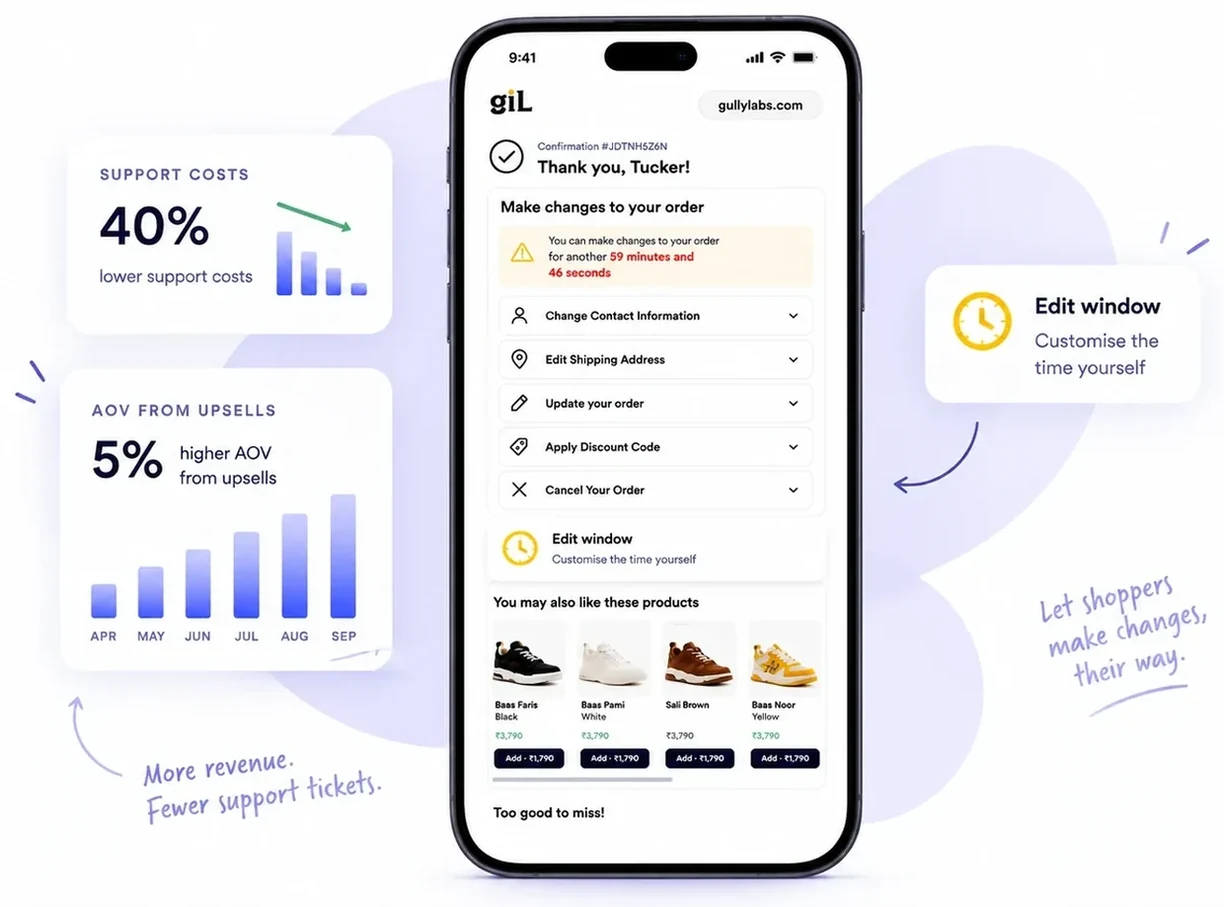
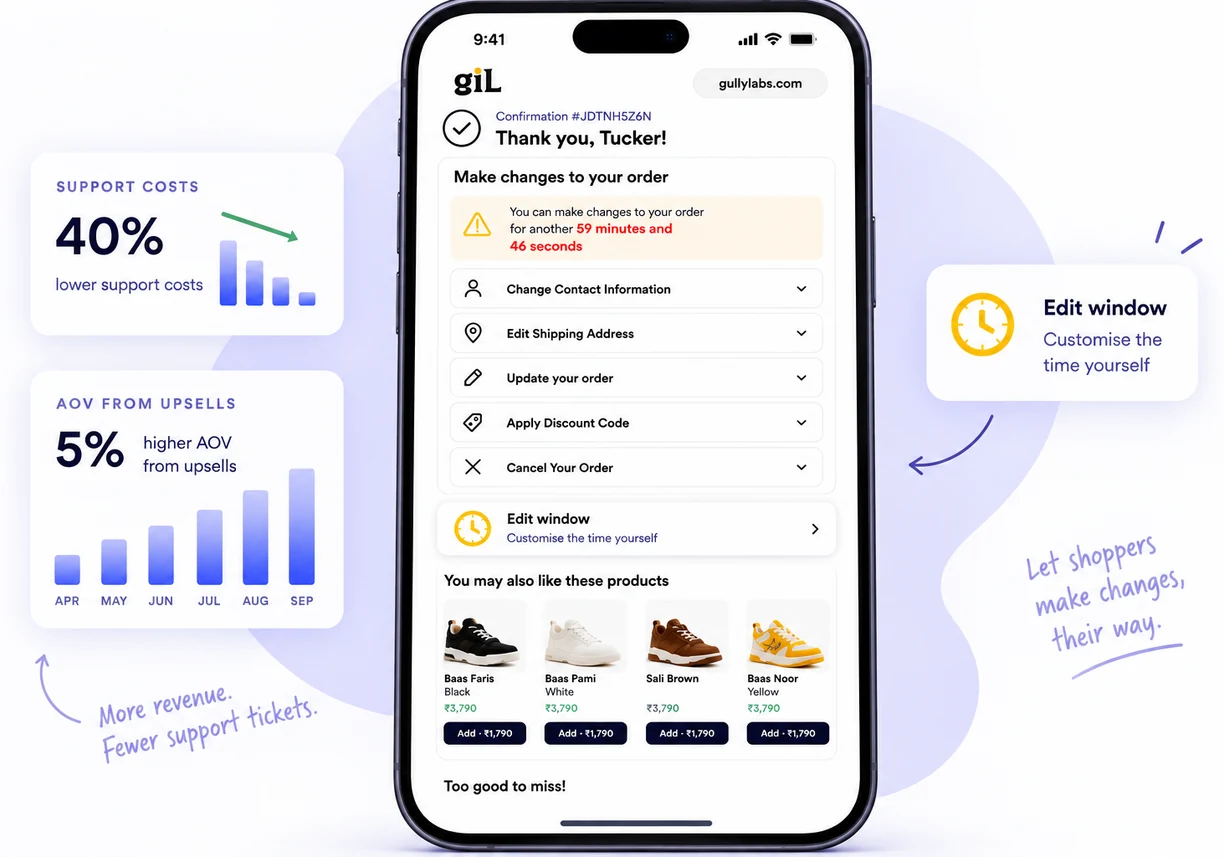
The newer hero render replaces the first one
Same composition drawn cleaner - a larger phone, crisper cards - so the
only structural change is the height. It trims to 1.429:1 against the old
1.348, which makes 612 wide 428 tall rather than 454. Stated on the tag as
well as in the style, so the box is reserved before the bytes land.

Trimmed the same way: content ran x 55..1486 of 1536 with nothing to spare
top or bottom, so 50 and 55 came off the sides with an even 16 given back.
612 and 1224, 30KB and 76KB.

Width is unchanged, so the copy column and its three-line headline are
untouched - verified three lines at 1440, 1280 and 420, and the h1's
longest line still measures 572 in its 580 column.

diff --git a/index.html b/index.html
@@ -1571,7 +1571,7 @@
       </div>
 
       <div style="width: 612px; flex-shrink: 0; display: flex; justify-content: flex-start; align-items: center;">
-        <img src="assets/hero-home.webp" srcset="assets/hero-home.webp 612w, assets/hero-home@2x.webp 1224w" sizes="612px" alt="The Gully Labs thank-you page on a phone: a countdown on how long the order stays editable, rows for contact details, shipping address, order changes, discount codes and cancellation, and recommended trainers below. Floating cards read 40% lower support costs and 5% higher AOV from upsells, a callout explains that the edit window is yours to set, and two handwritten lines read “Let shoppers make changes, their way” and “More revenue. Fewer support tickets.”" width="612" height="454" style="width: 612px; max-width: 100%; height: auto; display: block;">
+        <img src="assets/hero-home.webp" srcset="assets/hero-home.webp 612w, assets/hero-home@2x.webp 1224w" sizes="612px" alt="The Gully Labs thank-you page on a phone: a countdown on how long the order stays editable, rows for contact details, shipping address, order changes, discount codes and cancellation, and recommended trainers below. Floating cards read 40% lower support costs and 5% higher AOV from upsells, a callout explains that the edit window is yours to set, and two handwritten lines read “Let shoppers make changes, their way” and “More revenue. Fewer support tickets.”" width="612" height="428" style="width: 612px; max-width: 100%; height: auto; display: block;">
       </div>
     </div>
   </section>
